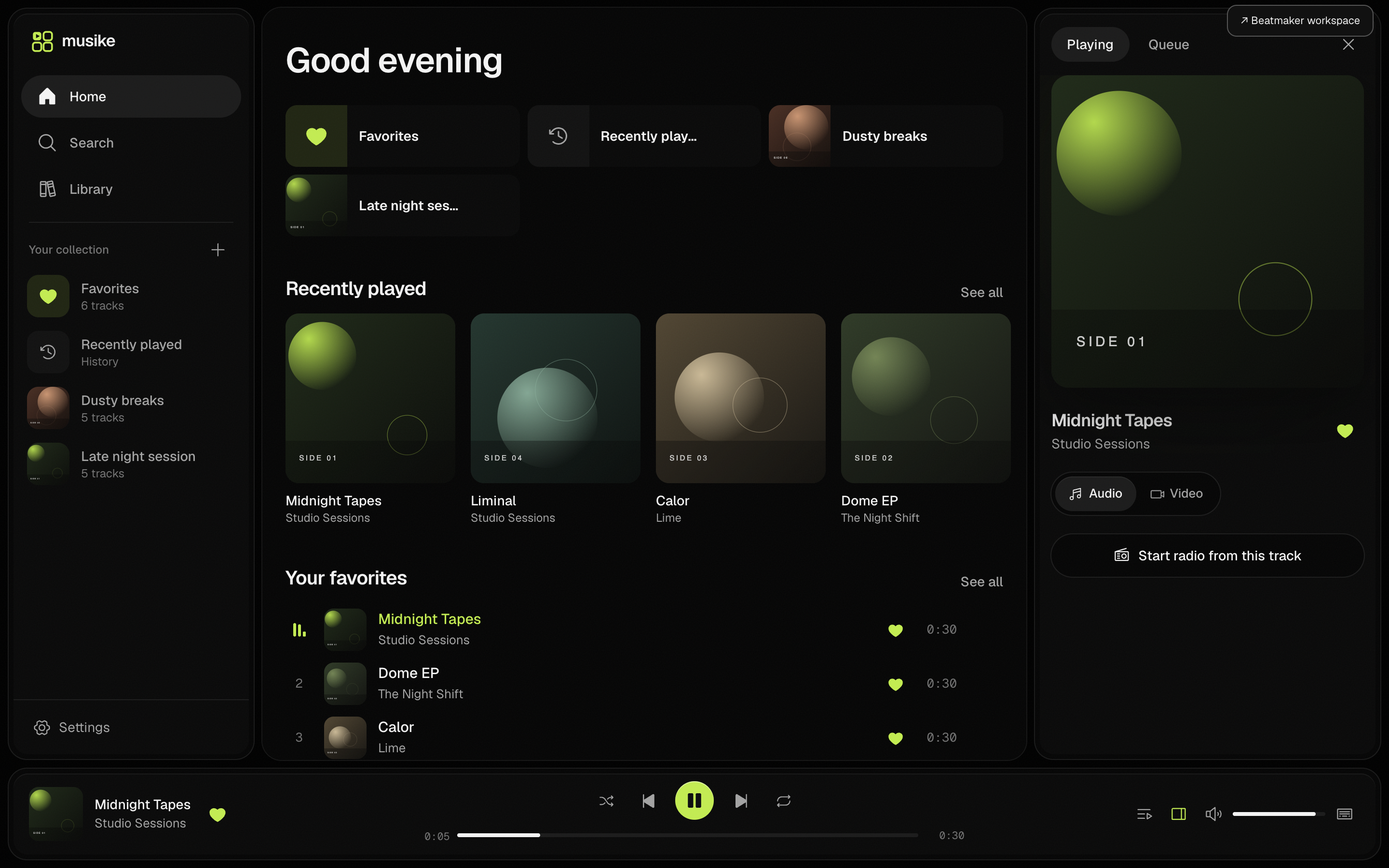
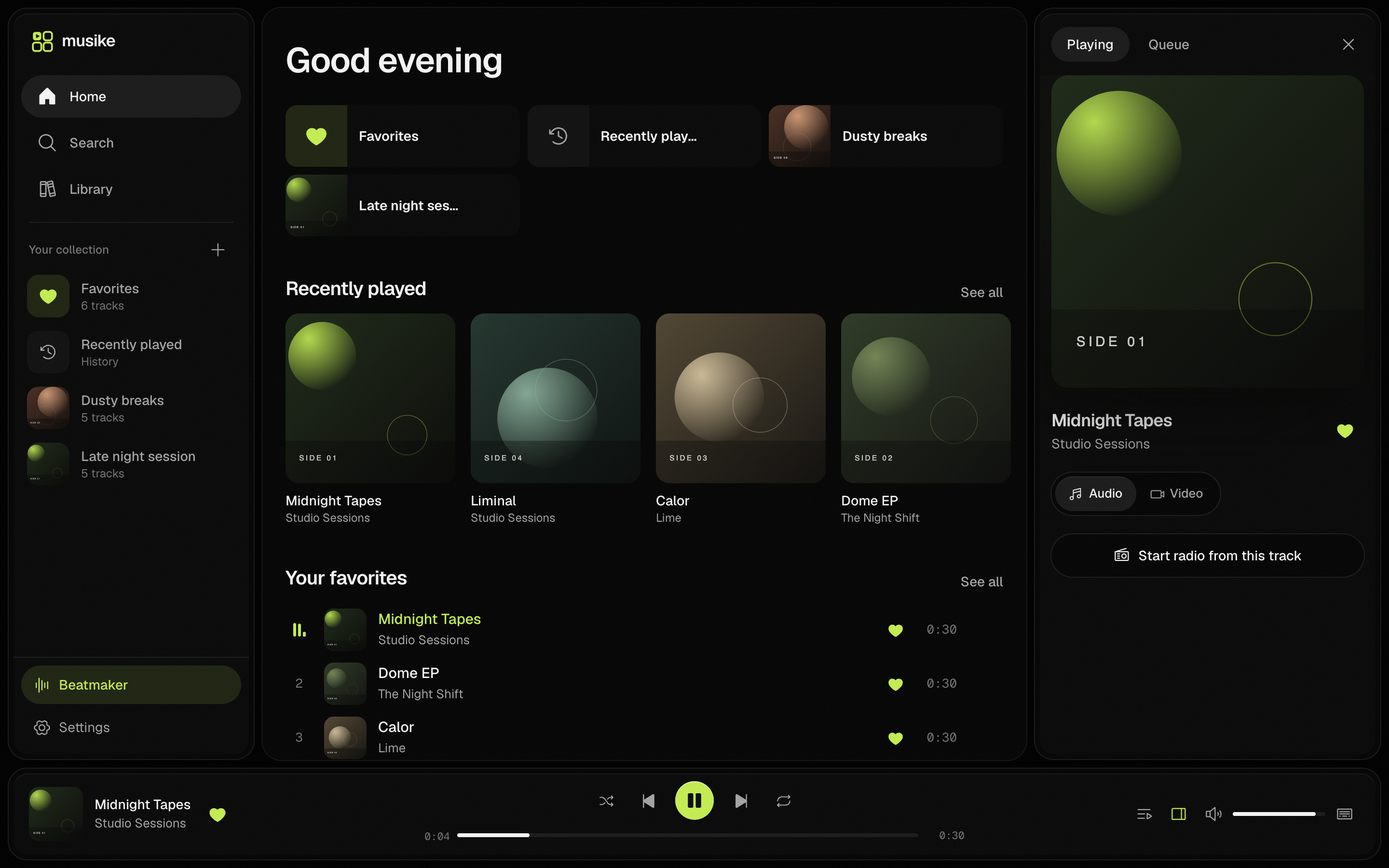
fix(app): move the Beatmaker switch into the library navigation

Changed region(s): [[0.0, 0.7467, 0.1875, 0.8089], [0.9062, 0.0, 0.9688, 0.0311]]

diff --git a/web/src/components/MobileChrome.tsx b/web/src/components/MobileChrome.tsx
@@ -1,4 +1,4 @@
-import { BooksIcon, HouseIcon, MagnifyingGlassIcon } from "@phosphor-icons/react";
+import { BooksIcon, HouseIcon, MagnifyingGlassIcon, WaveformIcon } from "@phosphor-icons/react";
 import { NavLink, useNavigate } from "react-router";
 import { cn } from "../lib/format";
 import { useT } from "../i18n";
@@ -13,14 +13,14 @@ const tabs = [
   { to: paths.library, key: "library", Icon: BooksIcon, end: false },
 ] as const;
 
-export function TabBar() {
+export function TabBar({ onStudio }: { onStudio?: () => void }) {
   const t = useT();
   return (
     <nav
       aria-label={t.nav.main}
       className="safe-bottom fixed inset-x-0 bottom-0 z-20 border-t border-line bg-bg/85 backdrop-blur-xl"
     >
-      <ul className="mx-auto grid h-16 max-w-md grid-cols-3">
+      <ul className={cn("mx-auto grid h-16 max-w-md", onStudio ? "grid-cols-4" : "grid-cols-3")}>
         {tabs.map(({ to, key, Icon, end }) => (
           <li key={to}>
             <NavLink
@@ -48,6 +48,20 @@ export function TabBar() {
             </NavLink>
           </li>
         ))}
+        {onStudio && (
+          <li>
+            <button
+              type="button"
+              onClick={onStudio}
+              aria-label={t.nav.beatmakerWorkspace}
+              title={t.nav.beatmakerWorkspace}
+              className="relative flex h-full w-full flex-col items-center justify-center gap-1 text-[11px] font-medium text-fg-3 transition-colors active:text-fg"
+            >
+              <WaveformIcon size={24} />
+              {t.nav.beatmaker}
+            </button>
+          </li>
+        )}
       </ul>
     </nav>
   );

diff --git a/web/src/App.tsx b/web/src/App.tsx
@@ -44,10 +44,19 @@ export default function App() {
     }
     setDiscover(false);
   }} onBrowse={() => setStudio(false)} />;
-  return studio ? <Beatmaker onDiscover={() => setDiscover(true)} onBrowse={() => setStudio(false)} /> : <>{!capabilities.retryOnError && <button type="button" className="studio-return app-no-drag" onClick={() => { setDiscover(false); setStudio(true); }}>↗ Beatmaker workspace</button>}<MusicApp /></>;
+  return studio ? (
+    <Beatmaker onDiscover={() => setDiscover(true)} onBrowse={() => setStudio(false)} />
+  ) : (
+    <MusicApp
+      onStudio={capabilities.retryOnError ? undefined : () => {
+        setDiscover(false);
+        setStudio(true);
+      }}
+    />
+  );
 }
 
-function MusicApp() {
+function MusicApp({ onStudio }: { onStudio?: () => void }) {
   const location = useLocation();
   const legacy = legacyRedirect(location.pathname, location.search, location.hash);
   const navigate = useNavigate();
@@ -124,7 +133,7 @@ function MusicApp() {
     <div className={cn("music-app grain flex h-dvh flex-col bg-bg md:gap-2 md:p-2", desktop && "md:pt-0")}>
       {desktop && <TitleBar />}
       <div className="flex min-h-0 flex-1 md:gap-2">
-        <Rail />
+        <Rail onStudio={onStudio} />
         <main
           ref={main}
           className={cn(
@@ -159,7 +168,7 @@ function MusicApp() {
       ) : (
         <>
           <MiniPlayer />
-          <TabBar />
+          <TabBar onStudio={onStudio} />
         </>
       )}
 

diff --git a/web/src/components/Rail.tsx b/web/src/components/Rail.tsx
@@ -6,6 +6,7 @@ import {
   HouseIcon,
   MagnifyingGlassIcon,
   PlusIcon,
+  WaveformIcon,
 } from "@phosphor-icons/react";
 import { useState, type ReactNode } from "react";
 import { NavLink, useNavigate } from "react-router";
@@ -92,7 +93,7 @@ function RailLink({ to, label, sub, end, children }: { to: string; label: string
   );
 }
 
-export function Rail() {
+export function Rail({ onStudio }: { onStudio?: () => void }) {
   const t = useT();
   const sidebarPlaylists = useAppearance((s) => s.sidebarPlaylists);
   const playlists = useLibrary((s) => s.playlists);
@@ -168,7 +169,19 @@ export function Rail() {
           ))}
         </div>
 
-        <div className="flex border-t border-line p-2">
+        <div className="flex flex-col gap-1 border-t border-line p-2">
+          {onStudio && (
+            <button
+              type="button"
+              onClick={onStudio}
+              aria-label={t.nav.beatmakerWorkspace}
+              title={t.nav.beatmakerWorkspace}
+              className="flex h-10 w-full items-center justify-center gap-2 rounded-full bg-accent-soft px-3 text-sm font-medium text-accent-text transition-colors hover:bg-accent hover:text-accent-ink wide:justify-start"
+            >
+              <WaveformIcon size={19} />
+              <span className="hidden flex-1 text-left wide:inline">{t.nav.beatmaker}</span>
+            </button>
+          )}
           <SettingsButton />
         </div>
       </div>

diff --git a/web/src/beatmaker/beatmaker.css b/web/src/beatmaker/beatmaker.css
@@ -119,7 +119,6 @@
 .bm-guide dl { display:grid; grid-template-columns:130px 1fr; font-size:11px; gap:14px; margin:25px 0; }
 .bm-guide dt { font-family:"Geist Mono Variable",monospace; color:#ccc; }
 .bm-guide dd { color:#888; }
-.studio-return { position:fixed; z-index:1000; right:16px; top:5px; padding:7px 13px; border:1px solid #555; border-radius:10px; background:#111; color:#eee; font-size:11px; }
 /* Give the user's existing engine panels the same hardware-inspired finish. */
 .beatmaker-host .looper-panel-container,.beatmaker-host .looper-midimap-container { background:#0b0b0b!important; border:1px solid #383838!important; border-radius:18px!important; box-shadow:0 20px 90px #000b!important; color:#ddd!important; font-family:"Geist Variable",sans-serif!important; z-index:10000!important; }
 .beatmaker-host .looper-panel-container { max-height:calc(100dvh - 165px); max-width:calc(100vw - 40px); }

diff --git a/web/src/i18n/fr.ts b/web/src/i18n/fr.ts
@@ -49,6 +49,8 @@ export const fr: Messages = {
     search: "Rechercher",
     library: "Bibliothèque",
     settings: "Réglages",
+    beatmaker: "Beatmaker",
+    beatmakerWorkspace: "Espace Beatmaker",
     settingsAttention: "Réglages (attention requise)",
     settingsUpdate: "Réglages (mise à jour yt-dlp disponible)",
     updatePill: "Mettre à jour",

diff --git a/web/src/i18n/es.ts b/web/src/i18n/es.ts
@@ -49,6 +49,8 @@ export const es: Messages = {
     search: "Buscar",
     library: "Biblioteca",
     settings: "Ajustes",
+    beatmaker: "Beatmaker",
+    beatmakerWorkspace: "Espacio Beatmaker",
     settingsAttention: "Ajustes (requiere atención)",
     settingsUpdate: "Ajustes (actualización de yt-dlp disponible)",
     updatePill: "Actualizar",

diff --git a/web/src/i18n/en.ts b/web/src/i18n/en.ts
@@ -49,6 +49,8 @@ export const en = {
     search: "Search",
     library: "Library",
     settings: "Settings",
+    beatmaker: "Beatmaker",
+    beatmakerWorkspace: "Beatmaker workspace",
     settingsAttention: "Settings (needs attention)",
     settingsUpdate: "Settings (yt-dlp update available)",
     updatePill: "Update",

diff --git a/CHANGELOG.md b/CHANGELOG.md
@@ -40,7 +40,7 @@ First release of **YT Beatmaker Cues Desktop** as a standalone project.
 - Studio settings no longer expose appearance controls that do not affect the studio.
 - The workspace rate fader stays in percent when the original engine is in semitone mode, and identifies its current pitch/speed target.
 - Cue save status reflects persisted cue data, and failed session imports do not report full success.
-- The library's **Beatmaker workspace** button works from the desktop app's draggable title-bar area.
+- The **Beatmaker workspace** switch now lives in the library sidebar (and mobile tab bar), away from the desktop title bar.
 
 ### Known limitations
 
